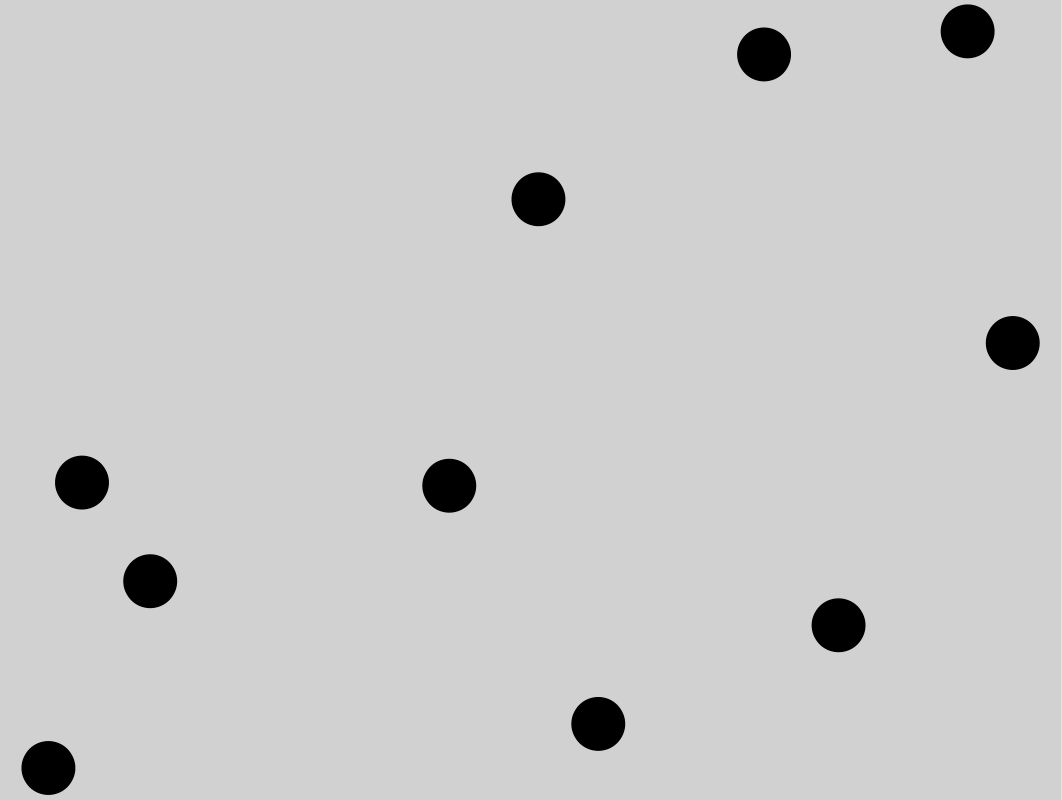
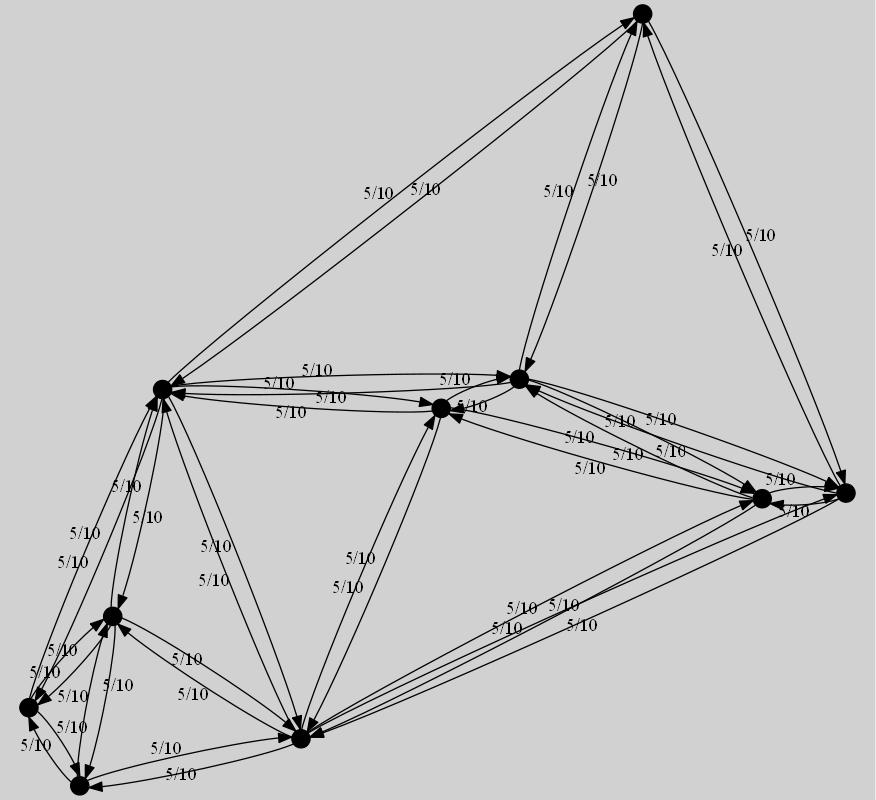
graph generation done, UI still ugly af tho

diff --git a/GraphUtils.cpp b/GraphUtils.cpp
@@ -1,5 +1,16 @@
 #include "GraphUtils.h"
 #include <chrono>
+#include <algorithm>
+
+float GraphUtils::CCW(Point a, Point b, Point c)
+{
+	return (b.x - a.x) * (c.y - a.y) - (b.y - a.y) * (c.x - a.x);
+}
+
+bool GraphUtils::intersect(Point a, Point b, Point c, Point d)
+{
+	return (CCW(a, b, c) * CCW(a, b, d) < 0 && CCW(c, d, b) * CCW(c, d, a) < 0);
+}
 
 std::vector<Vertex> GraphUtils::GenerateGraph(int numNodes, int maxCapacity)
 {
@@ -20,6 +31,55 @@ std::vector<Vertex> GraphUtils::GenerateGraph(int numNodes, int maxCapacity)
 
 		graph.push_back(Vertex(x, y));
 	}
+
+	std::vector<std::pair<size_t, size_t>> vertexPairs;
+	for (size_t i = 0; i < graph.size() - 1; ++i)
+	{
+		for (size_t j = i + 1; j < graph.size(); ++j)
+		{
+			vertexPairs.push_back(std::make_pair(i, j));
+		}
+	}
+
+	// sort vertex pairs by distance
+	std::sort(vertexPairs.begin(), vertexPairs.end(), [&](std::pair<size_t, size_t> lhs, std::pair<size_t, size_t> rhs)
+		{
+			float lhsDeltaY = graph[lhs.second].pos.y - graph[lhs.first].pos.y;
+			float lhsDeltaX = graph[lhs.second].pos.x - graph[lhs.first].pos.x;
+			float lhsDistSquared = (lhsDeltaY * lhsDeltaY) + (lhsDeltaX * lhsDeltaX);
+
+			float rhsDeltaY = graph[rhs.second].pos.y - graph[rhs.first].pos.y;
+			float rhsDeltaX = graph[rhs.second].pos.x - graph[rhs.first].pos.x;
+			float rhsDistSquared = (rhsDeltaY * rhsDeltaY) + (rhsDeltaX * rhsDeltaX);
+
+			return lhsDistSquared < rhsDistSquared;
+		});
+
+	for (auto& pair : vertexPairs)
+	{
+		bool intersectsAny = false;
+		for (auto& vert : graph)
+		{
+			for (auto& neighbor : vert.neighbors)
+			{
+				if (intersect(graph[pair.first].pos, graph[pair.second].pos, vert.pos, graph[neighbor.index].pos))
+				{
+					intersectsAny = true;
+					break;
+				}
+			}
+			if (intersectsAny)
+				break;
+		}
+		if (intersectsAny)
+		{
+			continue; // cant insert without intersection, next.
+		}
+
+		graph[pair.first].neighbors.emplace_back(pair.second, 0);
+		graph[pair.second].neighbors.emplace_back(pair.first, 0);
+	}
+
 
 	return graph;
 }

diff --git a/DotWriter.cpp b/DotWriter.cpp
@@ -5,11 +5,11 @@
 void DotWriter::Write(const std::vector<Vertex>& graph)
 {
 	static const char* prefix = R"(digraph {
-    graph [pad="0.212,0.055" bgcolor="#d1d1d1"]
-    node [style=filled])";
+    graph [pad="0.212,0.055" bgcolor="#d1d1d1" dpi=100 size="12,8!"]
+    node [fillcolor = "#000000" style=filled shape=circle width=0.2 fixedsize=true label = ""])";
 
-	static std::string generalVertexTagsPrePos = " [fillcolor = \"#000000\" pos = \"";
-	static std::string generalVertexTagsPostPos = "!\" shape=circle label = \"\"]";
+	static std::string generalVertexTagsPrePos = " [pos = \"";
+	static std::string generalVertexTagsPostPos = "!\"]";
 
 	std::ofstream outfile("graphviz/graph.dot");
 	outfile << std::fixed;
@@ -21,14 +21,29 @@ void DotWriter::Write(const std::vector<Vertex>& graph)
 	{
 		outfile << index;
 		outfile << generalVertexTagsPrePos;
-		outfile << vert.posX;
+		outfile << vert.pos.x;
 		outfile << ",";
-		outfile << vert.posY;
+		outfile << vert.pos.y;
 		outfile << generalVertexTagsPostPos;
 		outfile << std::endl;
 		++index;
 	}
 
+	index = 0;
+	for (const auto& vert : graph)
+	{
+		for (const auto& neighbor : vert.neighbors)
+		{
+			outfile << index;
+			outfile << " -> ";
+			outfile << neighbor.index;
+			outfile << " [label=\"5/10\"]";
+			outfile << std::endl;
+		}
+		++index;
+	}
+
 	outfile << "}" << std::endl;
+
 	outfile.close();
 }

diff --git a/Vertex.h b/Vertex.h
@@ -1,19 +1,27 @@
 #pragma once
 #include <vector>
 
+struct Point
+{
+	Point(float x_, float y_) : x(x_), y(y_){}
+	float x;
+	float y;
+};
+
 struct Neighbor
 {
+	Neighbor(int ind, int w) : index(ind), weight(w){}
 	int index;
 	int weight;
 };
 
 struct Vertex
 {
-	Vertex(float x, float y) : posX(x), posY(y){}
+	Vertex(float x, float y) : pos(x, y){}
+	Vertex(Point p) : pos(p){}
 
 	// payload
-	float posX;
-	float posY;
+	Point pos;
 	
 	// add additional payload here
 

diff --git a/main.cpp b/main.cpp
@@ -42,7 +42,8 @@ int main()
 		{ 
 			auto graph = GraphUtils::GenerateGraph(10, 24);
 			DotWriter::Write(graph);
-			system("cd graphviz & dot -Kfdp -n -Gsize=12,8\! -Gdpi=100 -Tpng graph.dot -o renderedGraph.png");
+			// -Gsize=12,8\! -Gdpi=100
+			system("cd graphviz & dot -Kfdp -n -Tpng graph.dot -o renderedGraph.png");
 			if (!image.loadFromFile("graphviz/renderedGraph.png"))
 			{
 				return -1;

diff --git a/GraphUtils.h b/GraphUtils.h
@@ -6,6 +6,10 @@
 
 namespace GraphUtils
 {
+	float CCW(Point a, Point b, Point c);
+
+	bool intersect(Point a, Point b, Point c, Point d);
+
 	std::vector<Vertex> GenerateGraph(int numNodes, int maxCapacity);
 };
 
